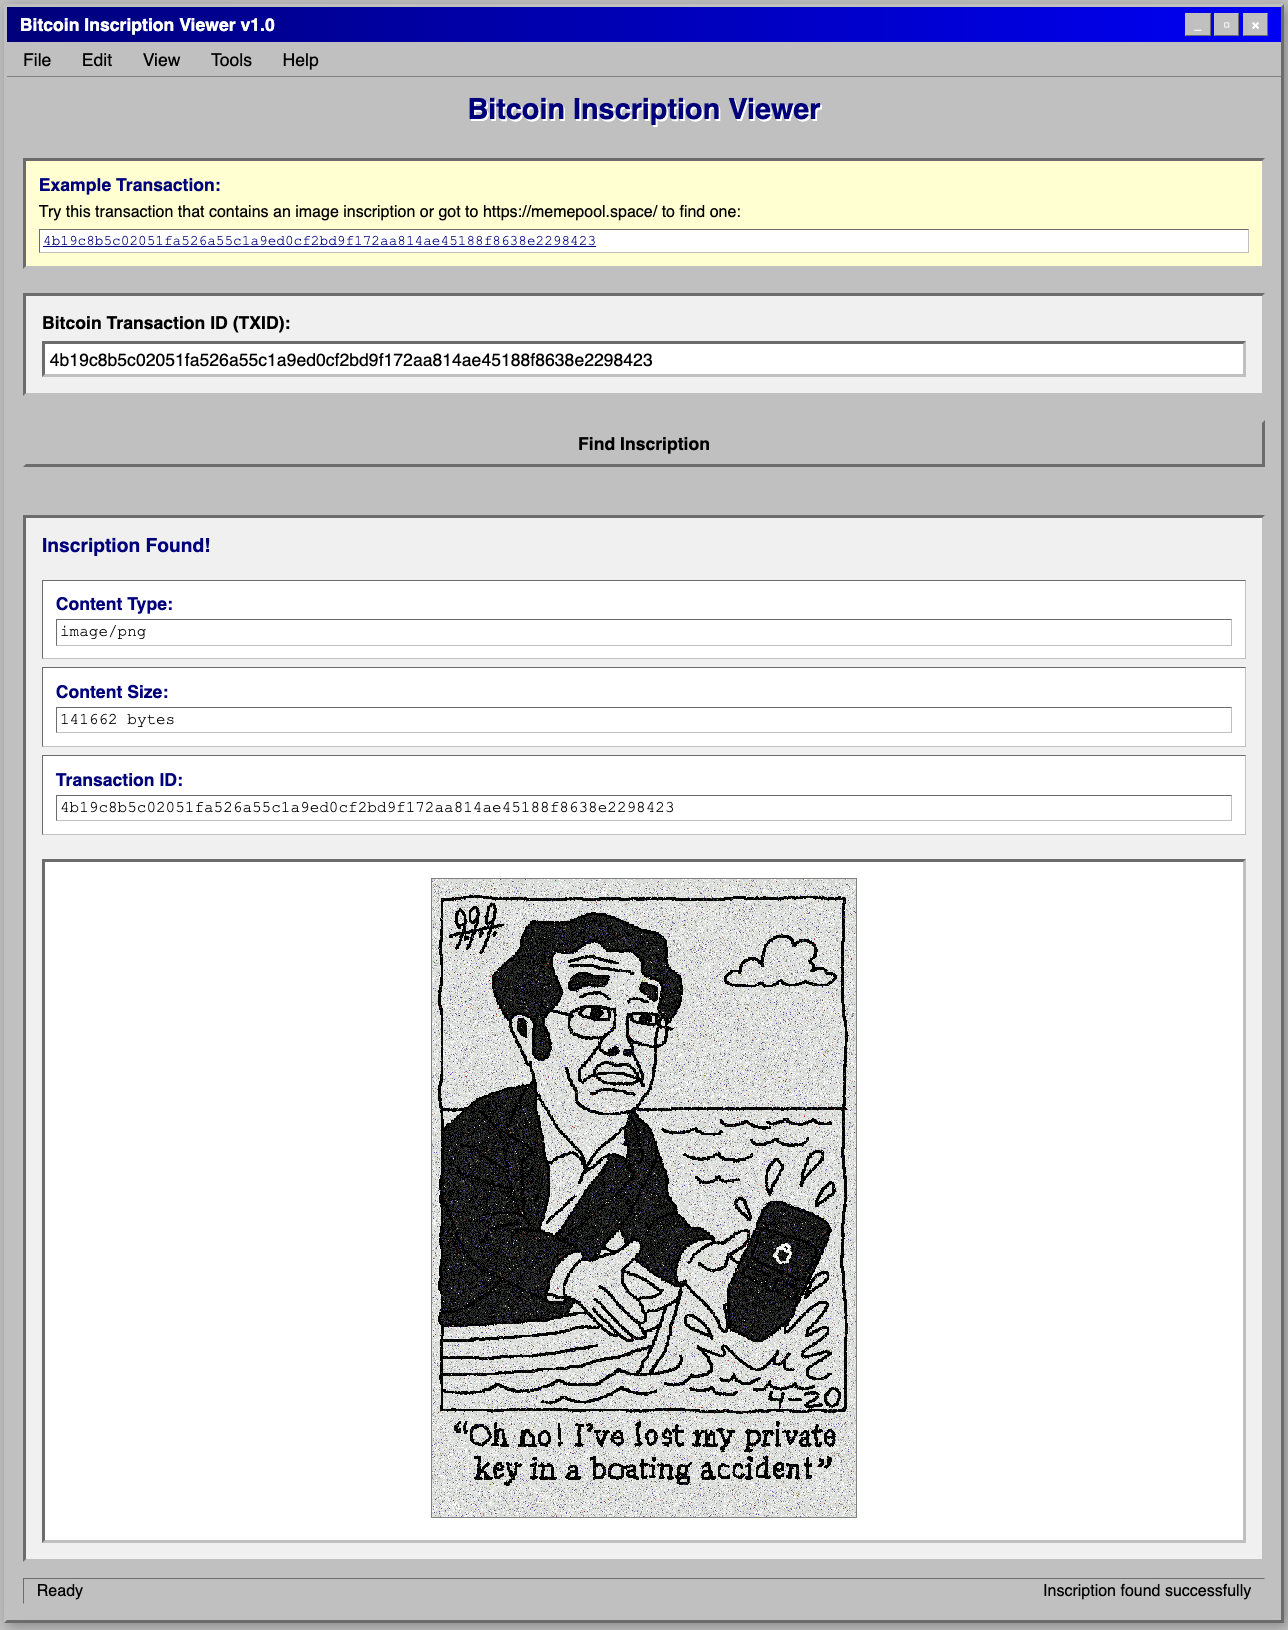
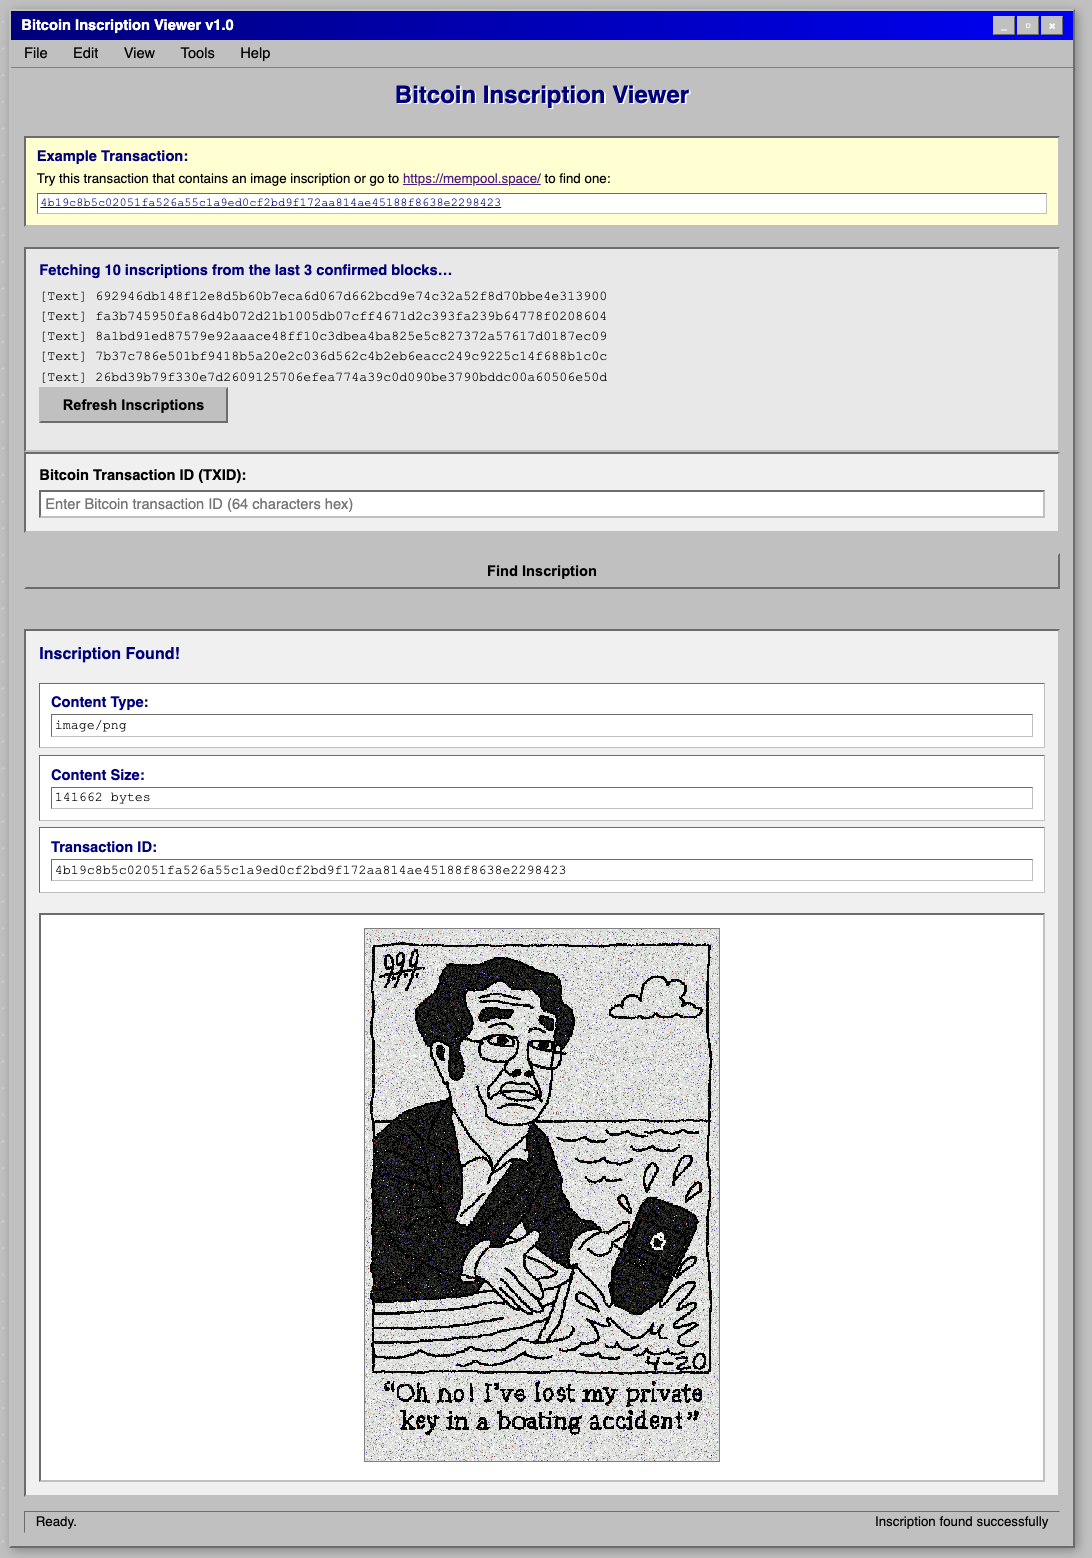
fix: update README

diff --git a/README.md b/README.md
@@ -1,10 +1,8 @@
-# Bitcoin Ordinals Viewer
+# Bitcoin Inscriptions Viewer
 
-A tool to decode inscriptions on Bitcoin blocks.
+A tool to decode inscriptions on Bitcoin blocks. It fetches the first 10 inscriptions from the last 3 confirmed blocks.
 
 ![image](./viewer.png)
-
-Update the transaction ID to whatever you need to decode, for example: https://memepool.space/tx/4b19c8b5c02051fa526a55c1a9ed0cf2bd9f172aa814ae45188f8638e2298423
 
 Make sure you have Rust installed, clone this repository and then run:
 
@@ -13,3 +11,4 @@ cargo run --release
 ```
 
 The terminal will open up a browser window serving the HTML page.
+Update the transaction ID to whatever you need to decode, for example: [4b19c8b5c02051fa526a55c1a9ed0cf2bd9f172aa814ae45188f8638e2298423](https://memepool.space/tx/4b19c8b5c02051fa526a55c1a9ed0cf2bd9f172aa814ae45188f8638e2298423)
